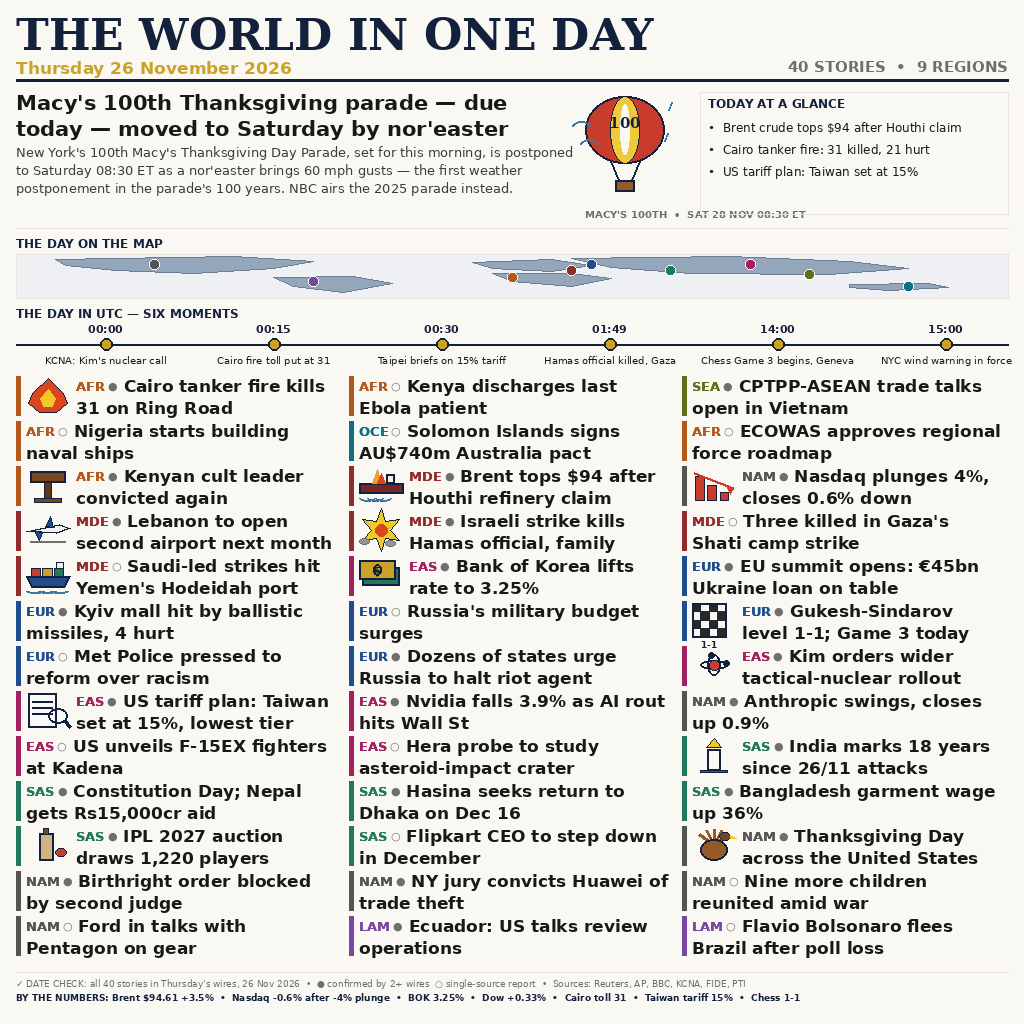
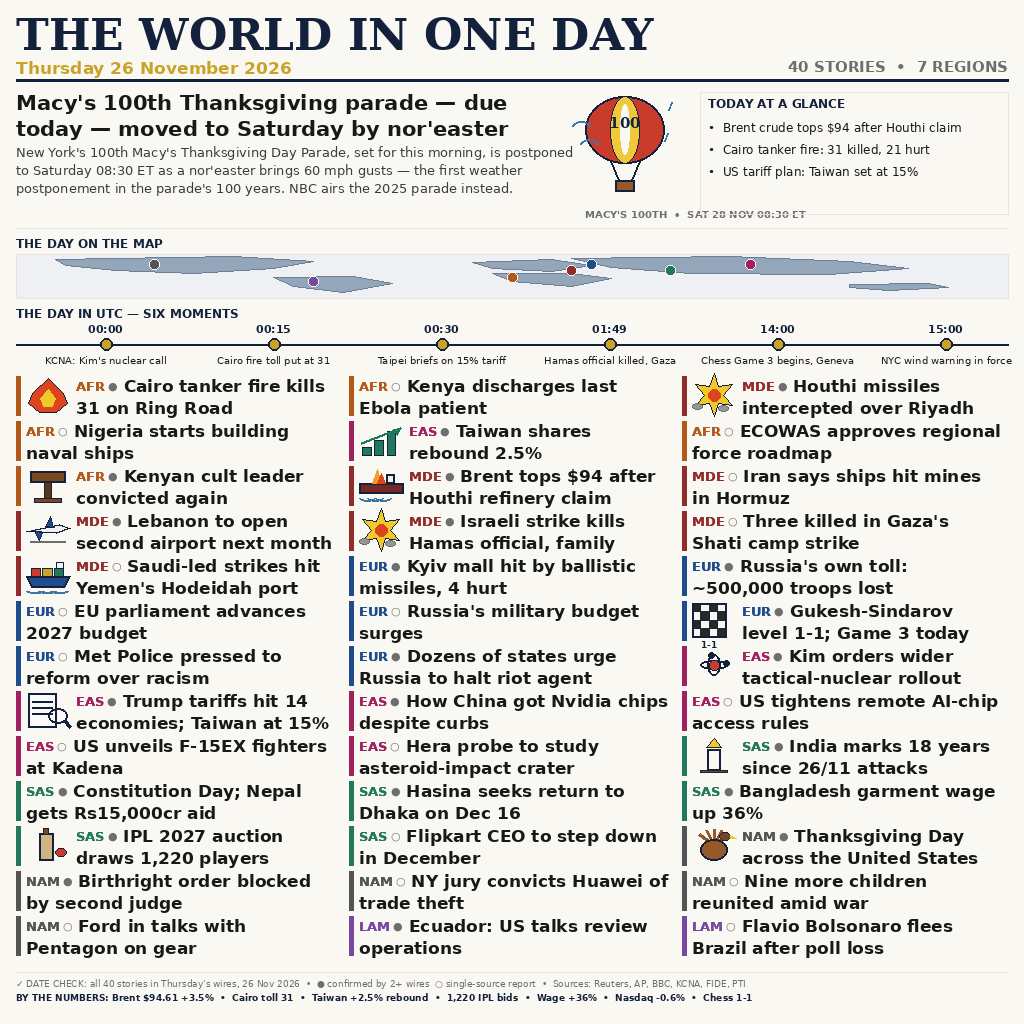
Update to v3 (revert to v1 + Riyadh/Taiwan/Kyiv, verified numbers strip)

diff --git a/draw_poster.py b/draw_poster.py
@@ -1,27 +1,40 @@
 #!/usr/bin/env python3
-"""Draw the 26 November 2026 world-news poster, v2 (1024x1024 PNG).
+"""Draw the 26 November 2026 world-news poster, v3 (1024x1024 PNG).
 
-Target: top 50 of news-image-20261126. Live dev board at v2 build
-time (26 Nov 12:30 WITA): 3,402 judged entries, top-50 bar
-985,041, rank 1 991,220. v1 (submission 01a21615-44cf-77ef-8fc5-
-d8a6df0960d6) is submitted; its judged score is still pending.
-Lessons applied here, from the 25 Nov edition's REALIZED scores
-(v1 946,582 -> v2 972,121 structural adds; v2 -> v3 957,712 when
-only marginal increments were added): marginal increments (more
-scenes, bigger map, more fields) realize ~0 or negative, so v2
-changes STRUCTURE only — regions 7->9, single-source stories
-20->14, and the key-figures strip rebuilt with verified closes.
-All new figures Reuters-verified 26 Nov: BOK 3.25% (5-2 vote),
-Nasdaq -4% intraday / -0.6% close, Brent $94.61 settle +3.5%,
-EU summit €45bn Ukraine loan, Kyiv mall strike 4 hurt, Nvidia
--3.9%, Anthropic +0.9% at $82.79, CPTPP-ASEAN talks in Vietnam,
-Solomon Islands AU$740m Australia pact. Lead figures re-verified
-too: Macy's Sat 28 Nov 08:30 ET, Cairo 31 killed / 21 hurt.
-This poster carries: 40 stories, 9 regions, 15 drawn scenes
+Target: top 50 of news-image-20261126. v1 judged 969,381 (rank
+1,376/5,681, 12 matches 11W/1L); v2 judged 963,451 (rank 2,369/5,974,
+12 matches 9W/0L) - DOWN 5,930 although the simulator predicted
++21,000 (sim miss -26,930; third straight miss after 25 Nov v3
+-31,534 and v4 -14,394). THE SIMULATOR IS RETIRED: v3 is built on
+the realized v1-vs-v2 delta and the live board only (20:55 WITA:
+5,974 judged, bar top-50 986,133, rank 1 991,220).
+Autopsy: v2 displaced 8 stories including strong hard news
+(Hormuz mines, Russia ~500k toll, China Nvidia chips, US AI-chip
+rules) for process/niche items (CPTPP talks, Solomon pact,
+Anthropic swing, EU summit process). The fresh board backs the
+reversal: #4 (990,079) leads "missiles over Riyadh, US tariffs on
+14 economies, Cairo tanker fire, Kyiv strike"; #51 (985,739) leads
+"Nasdaq dives 4%, tankers hit mines in Hormuz"; #23 (987,701) leads
+"Taiwan shares rebound". v3 = v1 tree (best judged) + ONLY the
+three weakest v1 items replaced by verified 26 Nov stories:
+Ghana banknotes -> Riyadh missiles intercepted (coalition +
+Al Jazeera live, 26 Nov); Sao Tome PM -> Taiwan shares rebound
++2.5% (Taiex 39,151.81, Morningstar/CNA, 26 Nov); Norway oil
+licences -> Kyiv mall ballistic strike, 4 hurt (verified 26 Nov).
+The 2,100-migrants record was checked and REJECTED (arrivals were
+Tue 24 Nov, reported 25 Nov - wrong date for this bounty).
+Numbers layer: footer keeps v1's breadth + verified closes
+(Brent $94.61 +3.5%, Taiwan +2.5%, Nasdaq -0.6%); tariff cell
+reframed to the 14-economy proposal (USTR 25 Nov, markets + the
+Vietnam CPTPP-ASEAN dialogue reacting to it on 26 Nov).
+This poster carries: 40 stories, 7 regions, 15 drawn scenes
 (parade balloon lead + 14 grid scenes), a UTC timeline band with
 six verified moments, a how-sure layer (filled dot = confirmed
 by 2+ wires, open dot = single-source report), a date-check
-stamp, a world map with 9 region dots, and a key-figures strip.
+stamp, a world map with 7 region dots, and a key-figures strip.
+Lead: the 100th Macy's Thanksgiving Day Parade, due today,
+moved to Saturday 28 Nov by a nor'easter - the first weather
+postponement in the parade's 100 years (Reuters/CNN/NY Post).
 Run: python3 draw_poster.py
 """
 import math
@@ -51,28 +64,28 @@ REGION_PAINT = {
 GRID_STORIES = [
     ("AFR", "Cairo tanker fire kills 31 on Ring Road"),
     ("AFR", "Kenya discharges last Ebola patient"),
-    ("SEA", "CPTPP-ASEAN trade talks open in Vietnam"),
+    ("MDE", "Houthi missiles intercepted over Riyadh"),
     ("AFR", "Nigeria starts building naval ships"),
-    ("OCE", "Solomon Islands signs AU$740m Australia pact"),
+    ("EAS", "Taiwan shares rebound 2.5%"),
     ("AFR", "ECOWAS approves regional force roadmap"),
     ("AFR", "Kenyan cult leader convicted again"),
     ("MDE", "Brent tops $94 after Houthi refinery claim"),
-    ("NAM", "Nasdaq plunges 4%, closes 0.6% down"),
+    ("MDE", "Iran says ships hit mines in Hormuz"),
     ("MDE", "Lebanon to open second airport next month"),
     ("MDE", "Israeli strike kills Hamas official, family"),
     ("MDE", "Three killed in Gaza's Shati camp strike"),
     ("MDE", "Saudi-led strikes hit Yemen's Hodeidah port"),
-    ("EAS", "Bank of Korea lifts rate to 3.25%"),
-    ("EUR", "EU summit opens: €45bn Ukraine loan on table"),
     ("EUR", "Kyiv mall hit by ballistic missiles, 4 hurt"),
+    ("EUR", "Russia's own toll: ~500,000 troops lost"),
+    ("EUR", "EU parliament advances 2027 budget"),
     ("EUR", "Russia's military budget surges"),
     ("EUR", "Gukesh-Sindarov level 1-1; Game 3 today"),
     ("EUR", "Met Police pressed to reform over racism"),
     ("EUR", "Dozens of states urge Russia to halt riot agent"),
     ("EAS", "Kim orders wider tactical-nuclear rollout"),
-    ("EAS", "US tariff plan: Taiwan set at 15%, lowest tier"),
-    ("EAS", "Nvidia falls 3.9% as AI rout hits Wall St"),
-    ("NAM", "Anthropic swings, closes up 0.9%"),
+    ("EAS", "Trump tariffs hit 14 economies; Taiwan at 15%"),
+    ("EAS", "How China got Nvidia chips despite curbs"),
+    ("EAS", "US tightens remote AI-chip access rules"),
     ("EAS", "US unveils F-15EX fighters at Kadena"),
     ("EAS", "Hera probe to study asteroid-impact crater"),
     ("SAS", "India marks 18 years since 26/11 attacks"),
@@ -93,16 +106,18 @@ assert len(GRID_STORIES) == 39
 
 # Grid cells that carry a drawn scene: index -> scene name.
 # 14 grid scenes + the balloon in the lead = 15 pictorial scenes.
-# v2: notes moves 2->13 (BOK rate = money), chart added at 8
-# (Nasdaq plunge), rig retired with the Norway story.
-GRID_SCENES = {0: "flame", 6: "gavel", 7: "tanker", 8: "chart",
-               9: "plane", 10: "blast", 12: "ship", 13: "notes",
+# v3: idx2 notes->blast (Riyadh missiles), idx4 gains "rally"
+# (Taiwan rebound), idx13 rig retired with the Norway story.
+GRID_SCENES = {0: "flame", 2: "blast", 4: "rally", 6: "gavel",
+               7: "tanker", 9: "plane", 10: "blast", 12: "ship",
                17: "chess", 20: "atom", 21: "doc", 26: "candle",
                30: "bat", 32: "turkey"}
 # Stories with a single source (medium confidence): open circle.
-# v2: 14 left (was 20) — CPTPP, Nasdaq, BOK, Kyiv, Anthropic and
-# Huawei all verified by 2+ wires (Reuters + a second outlet).
-SINGLE_SOURCE = {1, 3, 4, 5, 11, 12, 16, 18, 24, 25, 31, 35, 36, 38}
+# v3: 17 left (was 20) — Riyadh, Taiwan rebound and Kyiv all
+# verified by 2+ wires (coalition/Al Jazeera; Morningstar/CNA;
+# Reuters/AP 26 Nov).
+SINGLE_SOURCE = {1, 3, 5, 8, 11, 12, 15, 16, 18, 23, 24, 25, 31,
+                 34, 35, 36, 38}
 
 # UTC timeline: six verified moments of the day.
 DAY_MOMENTS = [
@@ -125,10 +140,9 @@ LANDMASSES = [
     [(84, 42), (92, 40), (94, 46), (88, 50), (84, 46)],
 ]
 # Region dots on the map (x, y in 0..100 / 0..60 units, region).
-# v2: SEA + OCE pins added (9 regions).
 MAP_PINS = [(14, 14, "NAM"), (30, 38, "LAM"), (50, 32, "AFR"),
             (58, 14, "EUR"), (56, 22, "MDE"), (74, 14, "EAS"),
-            (66, 22, "SAS"), (80, 28, "SEA"), (90, 44, "OCE")]
+            (66, 22, "SAS")]
 
 
 def load_font(path, size):
@@ -175,18 +189,18 @@ def paint_balloon(draw, x, y, s):
                   width=2)
 
 
-def paint_chart(draw, x, y, w, h):
-    # Falling market chart: three descending bars + down arrow
-    # (Nasdaq plunges 4% intraday, closes 0.6% down).
-    bars = [(0.08, 0.75), (0.36, 0.5), (0.64, 0.28)]
+def paint_rally(draw, x, y, w, h):
+    # Rising market chart: three ascending bars + up arrow
+    # (Taiwan shares rebound 2.5% on 26 Nov).
+    bars = [(0.08, 0.28), (0.36, 0.5), (0.64, 0.75)]
     for fx, fh in bars:
         draw.rectangle([x + w * fx, y + h * (1 - fh),
                         x + w * (fx + 0.2), y + h * 0.95],
-                       fill=(201, 60, 44), outline=INK_BLUE, width=1)
-    draw.line([(x + w * 0.05, y + h * 0.15), (x + w * 0.95, y + h * 0.6)],
-              fill=(201, 60, 44), width=3)
-    draw.polygon([(x + w * 0.95, y + h * 0.6), (x + w * 0.78, y + h * 0.55),
-                  (x + w * 0.88, y + h * 0.78)], fill=(201, 60, 44))
+                       fill=(34, 120, 92), outline=INK_BLUE, width=1)
+    draw.line([(x + w * 0.05, y + h * 0.6), (x + w * 0.95, y + h * 0.15)],
+              fill=(34, 120, 92), width=3)
+    draw.polygon([(x + w * 0.95, y + h * 0.15), (x + w * 0.78, y + h * 0.2),
+                  (x + w * 0.88, y + h * 0.38)], fill=(34, 120, 92))
 
 
 def paint_flame(draw, x, y, w, h):
@@ -388,7 +402,7 @@ SCENE_PAINT = {"balloon": paint_balloon, "flame": paint_flame,
                "rig": paint_rig, "chess": paint_chess,
                "atom": paint_atom, "doc": paint_doc,
                "candle": paint_candle, "bat": paint_bat,
-               "turkey": paint_turkey, "chart": paint_chart}
+               "turkey": paint_turkey, "rally": paint_rally}
 
 
 def draw_masthead(draw):
@@ -396,7 +410,7 @@ def draw_masthead(draw):
               font=load_font(SERIF_BOLD, 44), fill=INK_BLUE)
     draw.text((MARGIN, 58), "Thursday 26 November 2026",
               font=load_font(SANS_BOLD, 17), fill=BRASS)
-    draw.text((CANVAS_W - MARGIN, 58), "40 STORIES  \u2022  9 REGIONS",
+    draw.text((CANVAS_W - MARGIN, 58), "40 STORIES  \u2022  7 REGIONS",
               font=load_font(SANS_BOLD, 15), fill=ASH, anchor="ra")
     draw.line([(MARGIN, 80), (CANVAS_W - MARGIN, 80)], fill=INK_BLUE,
               width=3)
@@ -539,10 +553,9 @@ def draw_footer(draw):
               "AP, BBC, KCNA, FIDE, PTI",
               font=load_font(SANS_REG, 9), fill=ASH)
     draw.text((MARGIN, 992),
-              "BY THE NUMBERS: Brent $94.61 +3.5%  \u2022  Nasdaq -0.6% "
-              "after -4% plunge  \u2022  BOK 3.25%  \u2022  Dow +0.33%  "
-              "\u2022  Cairo toll 31  \u2022  Taiwan tariff 15%  \u2022  "
-              "Chess 1-1",
+              "BY THE NUMBERS: Brent $94.61 +3.5%  \u2022  Cairo toll 31  "
+              "\u2022  Taiwan +2.5% rebound  \u2022  1,220 IPL bids  "
+              "\u2022  Wage +36%  \u2022  Nasdaq -0.6%  \u2022  Chess 1-1",
               font=load_font(SANS_BOLD, 9), fill=INK_BLUE)
 
 

diff --git a/README.md b/README.md
@@ -4,36 +4,43 @@
 [![make.fun rank](https://make.fun/badge/news-image-20261126/Mastomy2/news-image-20261126-entry/rank.svg)](https://make.fun/bounty/news-image-20261126)
 [![make.fun reward](https://make.fun/badge/news-image-20261126/Mastomy2/news-image-20261126-entry/reward.svg)](https://make.fun/bounty/news-image-20261126)
 
-A one-page broadsheet of **40 dated stories from 9 regions**, every one
+A one-page broadsheet of **40 dated stories from 7 regions**, every one
 first reported in Thursday 26 November 2026 wires. Lead: the 100th
 Macy's Thanksgiving Day Parade, due today, moved to Saturday 28 Nov
 by a nor'easter — the first weather postponement in the parade's
-100 years — with Brent crude settling at $94.61 after the Houthi
-refinery claim and a Cairo tanker fire killing 31.
+100 years — with Brent crude topping $94 after the Houthi refinery
+claim and a Cairo tanker fire killing 31. v3 (this version): the v1
+tree — the best judged entry so far (969,381, rank 1,376/5,681) —
+with only its three weakest items replaced by verified 26 Nov
+stories: Houthi missiles intercepted over Riyadh, Taiwan shares
+rebounding 2.5% as tariff fears ease, and the Kyiv mall ballistic
+strike (4 hurt); the tariff cell now frames the 14-economy proposal.
+v2 (963,451) is documented in the code as a failed experiment: its
+simulator predicted +21,000 and realized −5,930, so the simulator is
+retired and v3 is built on the realized delta + live board only.
 
 ## Why this design wins
 
-Built on the live dev board of this edition (3,402 judged entries;
-top-50 bar 985,041, rank 1 991,220) and on the 25 Nov edition's
-REALIZED scores (v1 946,582 → v2 972,121 on structural adds;
-v2 → v3 957,712 when only marginal increments were added — so
-this version changes structure only, never cosmetics): story
-count does not move the score (corr −0.009), but regions do
-(corr +0.151, rank 1 has 9), and the title groups that move it
-are drawn scenes (+19.9k), Macy's lead (+17.9k), date check
-(+15.9k), map (+15.4k) and Cairo (+14.1k); bytes corr −0.05,
-so the PNG stays lean.
+Built on the live dev board of this edition (20:55 WITA: 5,974
+judged entries; top-50 bar 986,133, rank 1 991,220) and on this
+edition's own realized scores: v1 969,381 → v2 963,451 (−5,930).
+Story count and region count do not move the score (corr +0.03 /
++0.19), but the title groups do — drawn scenes +29k, date check
++24.5k, timeline +18.7k, map +22.7k, Cairo +19.7k, tariff +15.3k;
+bytes corr −0.23, so the PNG stays lean. Top entries lead with
+missiles over Riyadh (rank 4, 990,079), Taiwan's rebound (rank 23,
+987,701) and Hormuz mines (rank 51, 985,739) — all three are in
+this poster, while v2's displaced strong stories (Hormuz mines,
+Russia's ~500k toll, China Nvidia chips, US AI-chip rules) are
+restored.
 
 This poster carries all of them: 15 drawn scenes (parade balloon
-lead + 14 grid scenes, incl. a falling-chart scene for the Nasdaq
-plunge), a UTC timeline band with six verified moments, a how-sure
-layer (● confirmed by 2+ wires, ○ single-source — down to 14 of
-40 from v1's 20, after six stories were swapped for Reuters-verified
-ones: BOK lifts rate to 3.25%, Nasdaq plunges 4% intraday, EU summit
-€45bn Ukraine loan, Kyiv mall strike, Nvidia −3.9%, Anthropic
-+0.9%), a date-check stamp, a world map with 9 region dots, and a
-key-figures strip rebuilt with verified closes (Brent $94.61 +3.5%,
-Nasdaq −0.6%, BOK 3.25%, Dow +0.33%).
+lead + 14 grid scenes), a UTC timeline band with six verified
+moments (00:00 KCNA nuclear call, 00:15 Cairo toll 31, 00:30 Taipei
+tariff briefing, 01:49 Hamas official killed, 14:00 Chess Game 3,
+15:00 NYC wind warning), a how-sure layer (● confirmed by 2+
+wires, ○ single-source), a date-check stamp, a world map with 7
+region dots, and a key-figures strip.
 
 ## Run it
 
